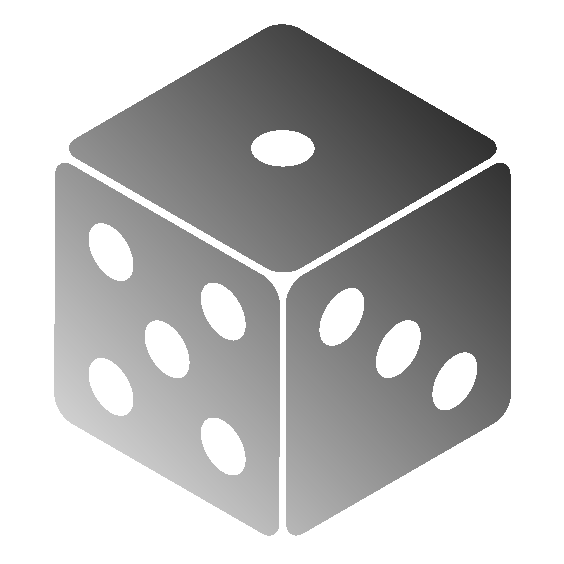
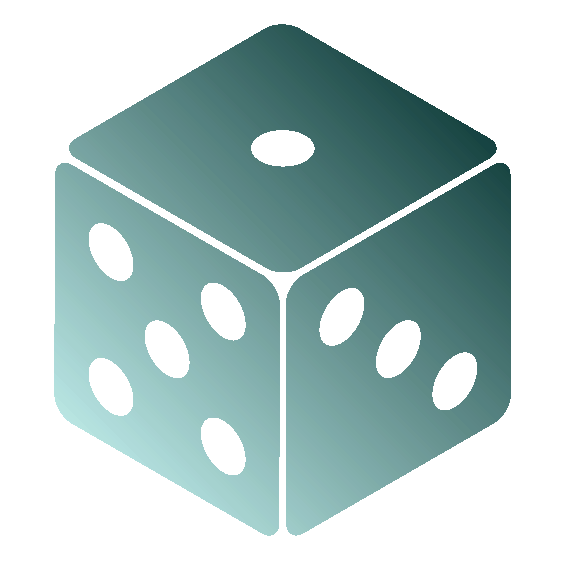
+ page prototype

diff --git a/style.css b/style.css
@@ -45,7 +45,8 @@ nav {
 a:hover, a:visited, a:link, a:active
 {
     text-decoration: none;
-	color: rgba(50, 50, 50, 0.9);
+	/*color: rgba(50, 50, 50, 0.9);*/
+	color: rgba(1, 133, 119, 1);
 }
 
 p {
@@ -58,21 +59,21 @@ p {
 
 h4 {
 	font-size: 30px;
-	color: rgba(50, 50, 50, 0.9);
+	color: rgba(1, 113, 99, 1);
 	font-family: 'Dosis', sans-serif;
 	font-weight: 200;
 	/*line-height: 5px;*/
 	margin-top: 5px;
 	margin-bottom: -5px;
 	text-align: center;
-	border: 1px solid #ccc;
+	border: 1px solid rgba(177, 218, 212, 1);
 	border-radius: 10px;
-	background-color:#ddd;
+	background-color:#fff;
 }
 
 h3 {
 	font-size: 15px;
-	color: rgba(50, 50, 50, 0.9);
+	color: /*rgba(50, 50, 50, 0.9);*/  rgba(1, 133, 119, 1);
 	font-family: 'Dosis', sans-serif;
 	font-weight: 200;
 	/*line-height: 5px;*/
@@ -80,9 +81,9 @@ h3 {
 	margin-top: -20px;
 	margin-bottom: -5px;
 	text-align: center;
-	border: 1px solid #ddd;
+	border: 1px solid /*#ddd;*/rgba(177, 218, 212, 1);
 	border-radius: 10px;
-	background-color:#e5e5e5;
+	background-color:/*#e5e5e5;*/white;
 	width: 90%;
 }
 
@@ -194,8 +195,9 @@ h2 {
 	font-family: 'Dosis', sans-serif;
 	font-weight: 200;
 	text-decoration: none;
-	background-color: rgba(177, 218, 212, 0.75);
+	background-color: rgba(300, 300, 300, 0.75);
 }
+
 
 .onMe {
 	width: 200px;

diff --git a/prototypePage.css b/prototypePage.css
@@ -12,23 +12,24 @@
 	padding: 0 10px 20px 10px; /*top right bottom left*/
 	background-color: rgba(300, 300, 300, 0.75);
 	border-radius: 15px;
+	border: 1px solid rgba(2, 196, 187, 1);
 }
 
 .prototypeTitle
 {
-	background-color: rgba(200, 200, 200, 1);
-	border: 1px solid #ddd;
+	background-color: white; /*rgba(200, 200, 200, 1);*/
+	border: 1px solid /*#ddd;*/ rgba(177, 218, 212, 1);
 	border-radius: 10px; /*top-left top-right bottom-right bottom-left*/
 	max-width: 40%;
 	text-align: center;
 	/*Typo*/
 	font-size: 40px;
-	color: rgba(50, 50, 50, 0.9);
+	color: /*rgba(50, 50, 50, 0.9);*/rgba(2, 159, 138, 1);
 	font-variant: small-caps;
 	font-family: 'Dosis', sans-serif;
 	font-weight: 200;
 	text-decoration: none;
-	margin-top: -20px;
+	margin-top: -25px;
 	margin-left: auto; 
 	margin-right: auto; 
 }

diff --git a/projectsPage.css b/projectsPage.css
@@ -39,7 +39,7 @@
 
 .roundFrame:hover 
 {
-    box-shadow: 0 0 2px 1px /*rgba(50, 50, 50, 0.5);*/rgba(2, 196, 187, 0.5);
+    box-shadow: 0 0 2px 1px /*rgba(50, 50, 50, 0.5);*/rgba(1, 133, 119, 0.75);
 }
 
 .projectFrameTitle
@@ -88,6 +88,7 @@
 	padding: 0 10px 20px 10px; /*top right bottom left*/
 	background-color: rgba(300, 300, 300, 0.75);
 	border-radius: 15px;
+	border: 1px solid rgba(2, 196, 187, 1);
 }
 
 .yearTypo
@@ -100,6 +101,7 @@
 	color: #555;
 	border-radius: 0 0 0 25px;
 	padding-left: 25px;
+	margin-top: 5px;
 	
 }
 
